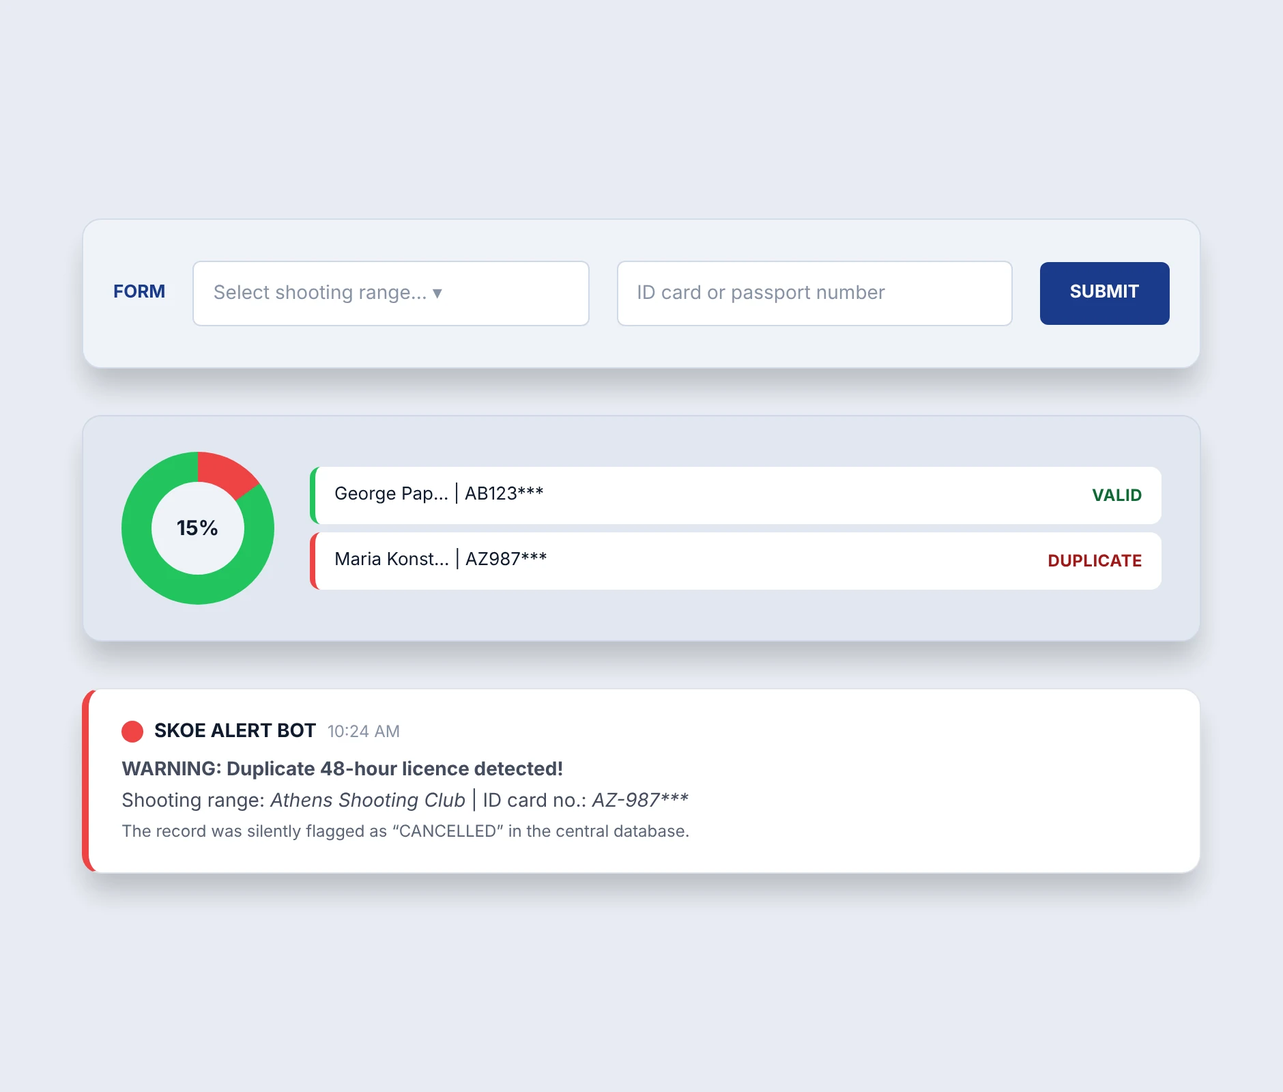
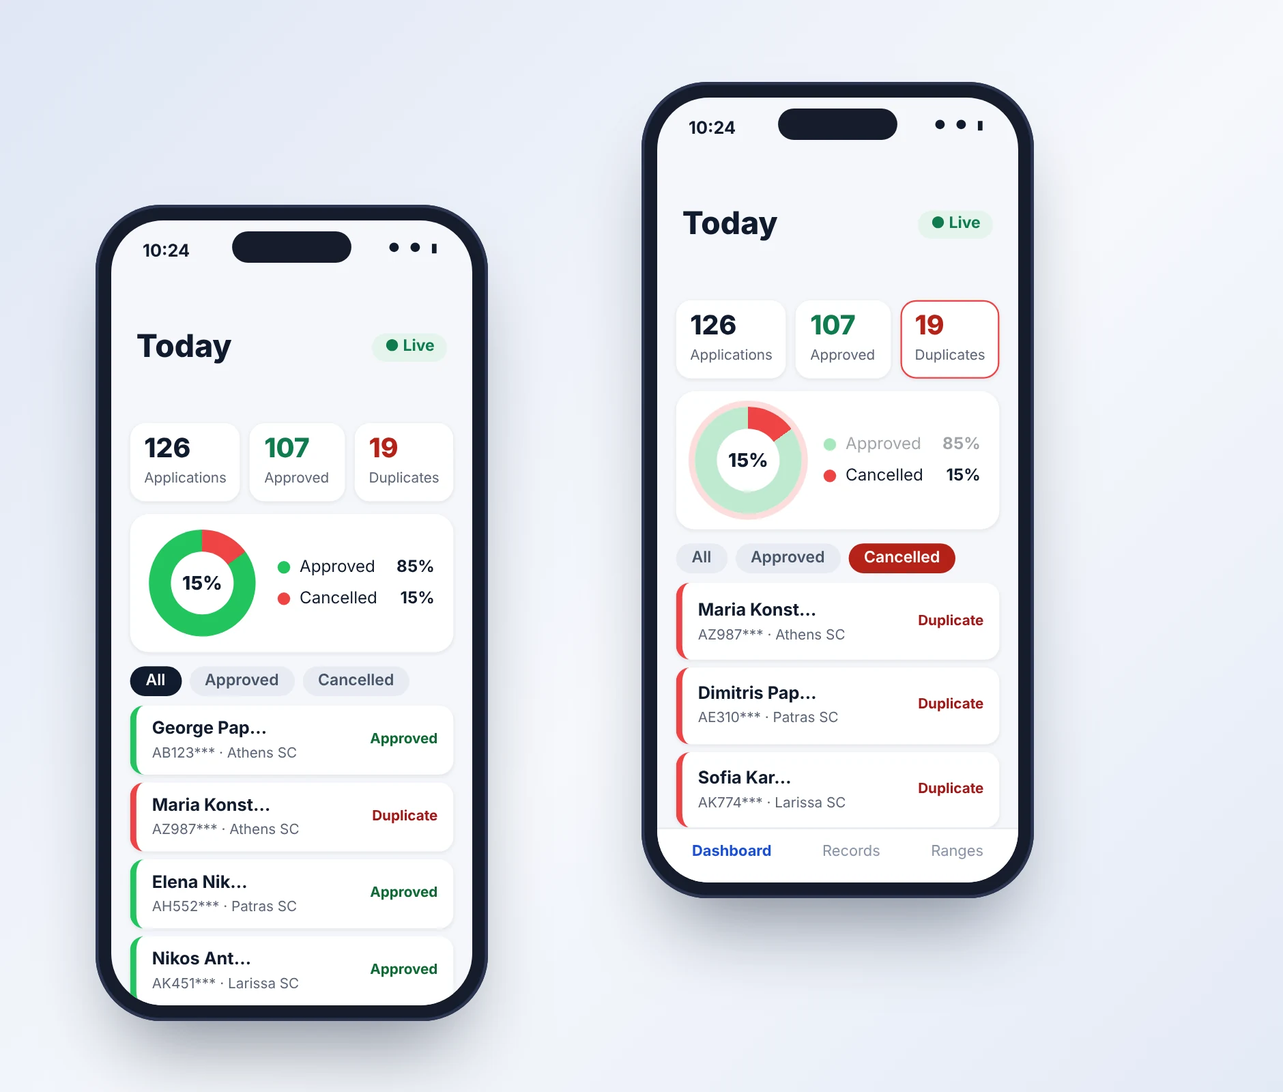
Add device mockups to SKOE 48-Hour Licence Monitor
Claude-Session: https://claude.ai/code/session_01SoYrbcfB7VkSE2m22CgD2x

Changed region(s): [[0.0617, 0.0625, 0.9564, 0.9688], [0.8638, 0.4375, 0.8947, 0.4688], [0.617, 0.7188, 0.6479, 0.75]]

diff --git a/skoe-monitor.html b/skoe-monitor.html
@@ -46,7 +46,7 @@
     </div>
   </section>
 
-  <div class="sk-hero"><img src="images/skoe/monitor-hero.webp" alt="Overview of the three interfaces: the shooting range form, the management dashboard and the Slack alert"></div>
+  <div class="sk-hero"><img src="images/skoe/monitor-hero.webp" alt="Overview of the system: the licence form on a tablet, the management dashboard on a phone and the alert on a smartwatch" width="2400" height="1320"></div>
 
   <section class="overview overview--gwc" aria-labelledby="ov">
     <h2 class="overview__label" id="ov">Overview</h2>
@@ -111,6 +111,14 @@
     </tbody>
   </table>
   </div>
+  <section class="copy copy--center"><p>With a few sample rows, the sheet looks like this. The duplicates are flagged without anyone at the range seeing it.</p></section>
+  <div class="mk-sheet" role="img" aria-label="Mockup of the Trial_Licenses spreadsheet with seven columns and five sample rows, two of them flagged as cancelled duplicates">
+  <div class="mk-sheet__in" aria-hidden="true">
+    <div class="mk-sheet__top"><span class="mk-sheet__ic"></span><b>SKOE · Trial_Licenses</b><span>Sample data</span></div>
+    <div class="mk-sheet__scroll"><table><thead><tr><th>id</th><th>date_issued</th><th>shooting_range</th><th>first_name</th><th>last_name</th><th>id_card_number</th><th>status</th></tr></thead><tbody><tr class="ok"><td>e4f1a2</td><td>09:02</td><td>Athens Shooting Club</td><td>George</td><td>Papadopoulos</td><td>AB123456</td><td><span class="c-green">APPROVED</span></td></tr><tr class="dup"><td>7c9d03</td><td>09:12</td><td>Patras Shooting Club</td><td>Dimitris</td><td>Papas</td><td>AE310245</td><td><span class="c-red">CANCELLED - DUPLICATE</span></td></tr><tr class="ok"><td>a81f6b</td><td>09:40</td><td>Larissa Shooting Club</td><td>Nikos</td><td>Antoniou</td><td>AK451870</td><td><span class="c-green">APPROVED</span></td></tr><tr class="ok"><td>b30c9e</td><td>10:11</td><td>Thessaloniki Shooting Range</td><td>Elena</td><td>Nikolaidou</td><td>AH552913</td><td><span class="c-green">APPROVED</span></td></tr><tr class="dup"><td>5d27e8</td><td>10:24</td><td>Athens Shooting Club</td><td>Maria</td><td>Konstantinou</td><td>AZ987654</td><td><span class="c-red">CANCELLED - DUPLICATE</span></td></tr></tbody></table></div>
+    <div class="mk-sheet__tab"><span>Trial_Licenses</span></div>
+  </div>
+</div>
 
   <div class="rule rule--gap-sm" role="presentation"></div>
   <h2 class="section-title section-title--lg">Logic and rules</h2>
@@ -144,15 +152,26 @@
   <div class="rule rule--gap-sm" role="presentation"></div>
   <h2 class="section-title section-title--lg">1. Shooting range interface (web form preview)</h2>
   <section class="copy copy--center"><p>The screen the range’s secretary sees. Designed on a white, minimalist background, it focuses only on collecting the three basic items quickly, with no unnecessary menus or distractions.</p></section>
-  <figure class="sk-mock">
-    <div class="sk-form" role="img" aria-label="Mockup of the web form: a shooting range dropdown, an ID card or passport number field and a submit button">
-      <span class="sk-form__label">FORM</span>
-      <span class="sk-form__field">Select shooting range… ▾</span>
-      <span class="sk-form__field sk-form__field--wide">ID card or passport number</span>
-      <span class="sk-form__btn">SUBMIT</span>
+  <div class="mk-stage"><div class="mk-tablet" role="img" aria-label="Mockup on a tablet: the licence form with a shooting range dropdown open, name fields, an ID card number field and a large submit button">
+  <div class="mk-tablet__screen" aria-hidden="true">
+    <div class="mk-bar"><span class="mk-logo">SKOE</span><span class="mk-bar__t">48-hour trial licence</span><span class="mk-bar__r">Hellenic Shooting Federation</span></div>
+    <div class="mk-formbody">
+      <h4>New trial licence</h4>
+      <p class="mk-sub">Takes about ten seconds. No account needed.</p>
+      <div class="mk-field"><label>Shooting range</label>
+        <div class="mk-select">Athens Shooting Club<i></i></div>
+        <ul class="mk-menu"><li class="on">Athens Shooting Club</li><li>Thessaloniki Shooting Range</li><li>Patras Shooting Club</li><li>Larissa Shooting Club</li></ul>
+      </div>
+      <div class="mk-row">
+        <div class="mk-field"><label>First name</label><div class="mk-input">Maria</div></div>
+        <div class="mk-field"><label>Last name</label><div class="mk-input">Konstantinou</div></div>
+      </div>
+      <div class="mk-field"><label>ID card or passport number</label><div class="mk-input mk-input--focus">AZ 987654<span class="mk-caret"></span></div></div>
+      <div class="mk-submit">Submit</div>
     </div>
-    <figcaption>Mockup of the form</figcaption>
-  </figure>
+  </div>
+</div></div>
+  <p class="mk-cap">Mockup on a tablet, with sample data</p>
   <section class="copy">
     <p class="sp"><span class="b">User experience at the range</span></p>
     <p><span class="b">Dropdowns:</span> the name of the range is chosen from a ready list, which removes spelling mistakes.</p>
@@ -162,16 +181,41 @@
   <div class="rule rule--none" role="presentation"></div>
   <h2 class="section-title section-title--lg">2. Central dashboard (Federation management)</h2>
   <section class="copy copy--center"><p>The heart of the control system. A modern AppSheet interface that groups thousands of records into one clean, interactive view. Here the data turns into knowledge at a glance.</p></section>
-  <figure class="sk-mock">
-    <div class="sk-dash" role="img" aria-label="Mockup of the dashboard: a donut chart with 15 percent red, and two records, one valid and one duplicate">
-      <div class="sk-donut"><span>15%</span></div>
-      <ul class="sk-recs">
-        <li class="ok"><span>George Pap… | AB123***</span><b>VALID</b></li>
-        <li class="dup"><span>Maria Konst… | AZ987***</span><b>DUPLICATE</b></li>
-      </ul>
-    </div>
-    <figcaption>Mockup of the dashboard</figcaption>
-  </figure>
+  <div class="mk-stage">
+    <div class="mk-pair"><div class="mk-phone" role="img" aria-label="Mockup on a phone: the management dashboard with today's totals, a donut chart that is 15 percent red and a list of recent records">
+  <div class="mk-phone__screen" aria-hidden="true">
+    <div class="mk-status"><b>10:24</b><span>● ● ▮</span></div>
+    <div class="mk-appbar"><h4>Today</h4><span class="mk-live">● Live</span></div>
+    <div class="mk-kpis"><div><b>126</b><span>Applications</span></div><div><b class="g">107</b><span>Approved</span></div><div><b class="r">19</b><span>Duplicates</span></div></div>
+    <div class="mk-chartcard"><div class="mk-donut mk-donut--sm"><span>15%</span></div><ul class="mk-legend"><li><i class="g"></i>Approved<b>85%</b></li><li><i class="r"></i>Cancelled<b>15%</b></li></ul></div>
+    <div class="mk-chips"><span class="on">All</span><span>Approved</span><span>Cancelled</span></div>
+    <ul class="mk-list">
+      <li class="ok"><div><b>George Pap…</b><span>AB123*** · Athens SC</span></div><em>Approved</em></li>
+      <li class="dup"><div><b>Maria Konst…</b><span>AZ987*** · Athens SC</span></div><em>Duplicate</em></li>
+      <li class="ok"><div><b>Elena Nik…</b><span>AH552*** · Patras SC</span></div><em>Approved</em></li>
+      <li class="ok"><div><b>Nikos Ant…</b><span>AK451*** · Larissa SC</span></div><em>Approved</em></li>
+    </ul>
+    <div class="mk-tabs"><span class="on">Dashboard</span><span>Records</span><span>Ranges</span></div>
+  </div>
+</div><p class="mk-cap">Today at a glance</p></div>
+    <span class="mk-arrow" aria-hidden="true">→</span>
+    <div class="mk-pair"><div class="mk-phone" role="img" aria-label="Mockup on a phone: after tapping the red slice the donut chart highlights it and the list shows only the cancelled duplicate records">
+  <div class="mk-phone__screen" aria-hidden="true">
+    <div class="mk-status"><b>10:24</b><span>● ● ▮</span></div>
+    <div class="mk-appbar"><h4>Today</h4><span class="mk-live">● Live</span></div>
+    <div class="mk-kpis"><div><b>126</b><span>Applications</span></div><div><b class="g">107</b><span>Approved</span></div><div class="sel"><b class="r">19</b><span>Duplicates</span></div></div>
+    <div class="mk-chartcard"><div class="mk-donut mk-donut--sm mk-donut--sel"><span>15%</span></div><ul class="mk-legend"><li class="dim"><i class="g"></i>Approved<b>85%</b></li><li><i class="r"></i>Cancelled<b>15%</b></li></ul></div>
+    <div class="mk-chips"><span>All</span><span>Approved</span><span class="on r">Cancelled</span></div>
+    <ul class="mk-list">
+      <li class="dup"><div><b>Maria Konst…</b><span>AZ987*** · Athens SC</span></div><em>Duplicate</em></li>
+      <li class="dup"><div><b>Dimitris Pap…</b><span>AE310*** · Patras SC</span></div><em>Duplicate</em></li>
+      <li class="dup"><div><b>Sofia Kar…</b><span>AK774*** · Larissa SC</span></div><em>Duplicate</em></li>
+    </ul>
+    <div class="mk-tabs"><span class="on">Dashboard</span><span>Records</span><span>Ranges</span></div>
+  </div>
+</div><p class="mk-cap">After tapping the red slice</p></div>
+  </div>
+  <p class="mk-cap">Mockups on a phone, with sample data</p>
   <section class="copy">
     <p class="sp"><span class="b">Interactivity and oversight</span></p>
     <p><span class="b">Interactive chart:</span> touching the red slice of the chart (15% in the mockup above) filters the list automatically to show only that day’s offenders.</p>
@@ -181,15 +225,25 @@
   <div class="rule rule--none" role="presentation"></div>
   <h2 class="section-title section-title--lg">3. Real-time alerts</h2>
   <section class="copy copy--center"><p>The system does not wait for the management to look for the problem. When the “radar” detects an illegal second application, it pushes the information actively (a push notification) to the organization’s communication tool, Slack.</p></section>
-  <figure class="sk-mock">
-    <div class="sk-slack" role="img" aria-label="Mockup of the Slack alert: a duplicate 48-hour licence was detected at the Athens Shooting Club">
-      <p class="sk-slack__head"><span class="sk-slack__dot"></span><b>SKOE ALERT BOT</b> <time>10:24 AM</time></p>
-      <p><b>WARNING: Duplicate 48-hour licence detected!</b></p>
-      <p>Shooting range: <i>Athens Shooting Club</i> | ID card no.: <i>AZ-987***</i></p>
-      <p class="sk-slack__small">The record was silently flagged as “CANCELLED” in the central database.</p>
+  <div class="mk-stage">
+    <div class="mk-slack" role="img" aria-label="Mockup of a Slack window: the licence alerts channel with an alert message from the SKOE alert bot reporting a duplicate 48-hour licence at the Athens Shooting Club">
+  <div class="mk-slack__in" aria-hidden="true">
+    <div class="mk-slack__top"><i></i><i></i><i></i></div>
+    <div class="mk-slack__body">
+      <aside><b>SKOE</b><span>Channels</span><ul><li># general</li><li class="on"># licence-alerts</li><li># office</li></ul></aside>
+      <section>
+        <header># licence-alerts<small>Real-time duplicate checks</small></header>
+        <div class="mk-msg"><span class="mk-avatar"></span><div><p class="mk-msg__h"><b>SKOE ALERT BOT</b> <time>9:12 AM</time></p>
+          <div class="mk-att"><p><b>WARNING: Duplicate 48-hour licence detected!</b></p><p>Shooting range: <i>Patras Shooting Club</i> | ID card no.: <i>AE-310***</i></p><p class="s">The record was silently flagged as “CANCELLED” in the central database.</p></div></div></div>
+        <div class="mk-msg"><span class="mk-avatar"></span><div><p class="mk-msg__h"><b>SKOE ALERT BOT</b> <time>10:24 AM</time></p>
+          <div class="mk-att"><p><b>WARNING: Duplicate 48-hour licence detected!</b></p><p>Shooting range: <i>Athens Shooting Club</i> | ID card no.: <i>AZ-987***</i></p><p class="s">The record was silently flagged as “CANCELLED” in the central database.</p></div><p class="mk-react"><span>👀 2</span><span>✅ 1</span></p></div></div>
+      </section>
     </div>
-    <figcaption>Mockup of the Slack alert</figcaption>
-  </figure>
+  </div>
+</div>
+    <div class="mk-alertcol"><div class="mk-watch" role="img" aria-label="Mockup of a smartwatch showing the alert: duplicate 48-hour licence at the Athens Shooting Club"><div class="mk-watch__screen" aria-hidden="true"><div class="mk-watch__t"><i></i>SKOE ALERT<time>10:24</time></div><b>Duplicate 48-hour licence</b><span>Athens Shooting Club<br>AZ-987***</span></div></div><div class="mk-banner" role="img" aria-label="Mockup of a phone notification from Slack: duplicate 48-hour licence detected"><div aria-hidden="true"><span class="mk-banner__ic"></span><div><p><b>SKOE ALERT BOT</b><time>now</time></p><p>WARNING: Duplicate 48-hour licence detected!</p><p class="s">Athens Shooting Club | AZ-987***</p></div></div></div></div>
+  </div>
+  <p class="mk-cap">The alert in Slack, as a push notification on the phone and on a smartwatch</p>
   <section class="copy">
     <p class="sp"><span class="b">Design value</span></p>
     <p><span class="b">Zero-click information:</span> the management receives the full report directly on their phone or smartwatch, without having to log in to the platform.</p>

diff --git a/css/style.css b/css/style.css
@@ -346,6 +346,117 @@ code{font:400 .88em ui-monospace,SFMono-Regular,Menlo,Consolas,monospace;backgro
 .sk-slack__dot{width:16px;height:16px;border-radius:50%;background:#ef4444}
 .sk-slack__small{font-size:12px;color:#5b6577}
 
+/* 9e. Device mockups (sample data) ------------------------------------------ */
+.mk-stage{margin:0 24px;border-radius:14px;padding:44px 24px 36px;background:linear-gradient(135deg,#e7edf8 0%,#f6f8fc 55%,#e9eef7 100%);box-shadow:0 16px 20.3px -3px rgba(0,0,0,.14);display:flex;justify-content:center;align-items:center;gap:34px;flex-wrap:wrap;position:relative}
+.mk-cap{margin:12px 0 0;text-align:center;font-size:calc(var(--fs-body)*.85);line-height:1.4;color:#4f4f4f}
+.mk-pair{display:flex;flex-direction:column;align-items:center}
+.mk-arrow{font-size:28px;color:#1b4fd8;align-self:center}
+.mk-tablet,.mk-phone,.mk-slack,.mk-sheet,.mk-watch,.mk-banner{font-family:Inter,system-ui,-apple-system,"Segoe UI",Roboto,Arial,sans-serif;color:#0f1b2d;text-align:left}
+.mk-tablet i,.mk-phone i{font-style:normal}
+/* tablet */
+.mk-tablet{width:min(100%,640px);aspect-ratio:4/3;padding:13px;border-radius:30px;background:#151c2c;box-shadow:0 30px 50px -18px rgba(15,27,45,.5),inset 0 0 0 2px #2b3550}
+.mk-tablet__screen{height:100%;border-radius:18px;background:#fff;overflow:hidden;font-size:12.5px;line-height:1.4}
+.mk-bar{display:flex;align-items:center;gap:12px;padding:10px 18px;background:#0f1b2d;color:#fff;font-size:12px}
+.mk-logo{display:inline-grid;place-items:center;padding:2px 8px;border-radius:6px;background:#1b4fd8;font-weight:800;letter-spacing:.04em;font-size:11px}
+.mk-bar__t{font-weight:600}.mk-bar__r{margin-left:auto;opacity:.7}
+.mk-formbody{padding:18px 8% 0;position:relative}
+.mk-formbody h4{font-size:19px;font-weight:800;line-height:1.2}
+.mk-sub{color:#5b6577;margin:2px 0 12px}
+.mk-field{margin-bottom:10px;position:relative}
+.mk-field label{display:block;font-size:11px;font-weight:700;color:#475467;margin-bottom:4px}
+.mk-select,.mk-input{padding:9px 12px;border-radius:8px;border:1px solid #cfd8e6;background:#fff;font-size:13px}
+.mk-select{display:flex;justify-content:space-between;border-color:#1b4fd8;box-shadow:0 0 0 3px rgba(27,79,216,.15)}
+.mk-select i{width:7px;height:7px;border-right:2px solid #475467;border-bottom:2px solid #475467;transform:rotate(45deg);margin:3px 3px 0 0}
+.mk-menu{list-style:none;position:absolute;z-index:3;left:0;right:0;top:100%;margin-top:4px;padding:4px;border-radius:10px;background:#fff;border:1px solid #dde3ee;box-shadow:0 14px 30px -8px rgba(15,27,45,.35)}
+.mk-menu li{padding:7px 10px;border-radius:6px;font-size:12.5px}
+.mk-menu li.on{background:#eaf0ff;color:#1b4fd8;font-weight:600}
+.mk-row{display:grid;grid-template-columns:1fr 1fr;gap:12px}
+.mk-input--focus{border-color:#1b4fd8;box-shadow:0 0 0 3px rgba(27,79,216,.15)}
+.mk-caret{display:inline-block;width:1.5px;height:14px;background:#1b4fd8;vertical-align:-2px;margin-left:2px}
+.mk-submit{margin-top:14px;padding:12px;border-radius:10px;background:#1b4fd8;color:#fff;text-align:center;font-weight:700;font-size:14px;box-shadow:0 8px 16px -6px rgba(27,79,216,.6)}
+/* phone */
+.mk-phone{width:250px;height:520px;flex:0 0 auto;padding:10px;border-radius:42px;background:#151c2c;box-shadow:0 30px 50px -18px rgba(15,27,45,.5),inset 0 0 0 2px #2b3550;position:relative}
+.mk-phone::before{content:"";position:absolute;top:17px;left:50%;width:76px;height:20px;margin-left:-38px;border-radius:12px;background:#151c2c;z-index:3}
+.mk-phone__screen{height:100%;border-radius:33px;background:#f5f7fb;overflow:hidden;display:flex;flex-direction:column;font-size:11px;line-height:1.35}
+.mk-status{display:flex;justify-content:space-between;padding:12px 20px 4px;font-size:11px;color:#0f1b2d}
+.mk-status span{font-size:8px;letter-spacing:2px}
+.mk-appbar{display:flex;justify-content:space-between;align-items:center;padding:10px 16px 8px}
+.mk-appbar h4{font-size:20px;font-weight:800}
+.mk-live{font-size:10px;font-weight:700;color:#0f7b4e;background:#e5f4ec;border-radius:99px;padding:2px 8px}
+.mk-kpis{display:grid;grid-template-columns:repeat(3,1fr);gap:6px;padding:0 12px}
+.mk-kpis div{background:#fff;border-radius:10px;padding:7px 8px;box-shadow:0 1px 3px rgba(15,27,45,.08);border:1.5px solid transparent}
+.mk-kpis b{display:block;font-size:17px;font-weight:800;line-height:1.1}
+.mk-kpis span{font-size:9px;color:#5b6577}
+.mk-kpis .sel{border-color:#ef4444}
+.g{color:#0f7b4e}.r{color:#b42318}
+.mk-chartcard{display:flex;align-items:center;gap:14px;margin:8px 12px 0;padding:10px 12px;background:#fff;border-radius:12px;box-shadow:0 1px 3px rgba(15,27,45,.08)}
+.mk-donut--sm{flex:0 0 68px;height:68px;border-radius:50%;background:conic-gradient(#ef4444 0 15%,#22c55e 0);display:grid;place-items:center;position:relative}
+.mk-donut--sm::after{content:"";position:absolute;inset:14px;border-radius:50%;background:#fff}
+.mk-donut--sm span{position:relative;z-index:1;font-size:12px;font-weight:800}
+.mk-donut--sel{background:conic-gradient(#ef4444 0 15%,#bfe9cf 0);box-shadow:0 0 0 4px rgba(239,68,68,.18)}
+.mk-legend{list-style:none;flex:1;display:grid;gap:6px}
+.mk-legend li{display:flex;align-items:center;gap:6px;font-size:10.5px}
+.mk-legend li.dim{opacity:.4}
+.mk-legend i{width:8px;height:8px;border-radius:50%;background:#22c55e}.mk-legend i.r{background:#ef4444}
+.mk-legend b{margin-left:auto}
+.mk-chips{display:flex;gap:5px;padding:9px 12px 4px}
+.mk-chips span{padding:3px 10px;border-radius:99px;background:#e8ecf3;font-size:10px;font-weight:600;color:#475467}
+.mk-chips .on{background:#0f1b2d;color:#fff}.mk-chips .on.r{background:#b42318;color:#fff}
+.mk-list{list-style:none;display:grid;gap:5px;padding:2px 12px 0;flex:1}
+.mk-list li{display:flex;align-items:center;justify-content:space-between;padding:7px 10px;border-radius:9px;background:#fff;border-left:4px solid #22c55e;box-shadow:0 1px 3px rgba(15,27,45,.08)}
+.mk-list li.dup{border-left-color:#ef4444}
+.mk-list b{display:block;font-size:11px}.mk-list span{font-size:9px;color:#5b6577}
+.mk-list em{font-style:normal;font-size:9px;font-weight:700;color:#0f6a35}.mk-list .dup em{color:#a01818}
+.mk-tabs{display:flex;justify-content:space-around;padding:9px 6px 12px;background:#fff;border-top:1px solid #e6e9f0;font-size:9.5px;color:#8793a6;margin-top:auto}
+.mk-tabs .on{color:#1b4fd8;font-weight:700}
+/* slack */
+.mk-slack{width:min(100%,620px);border-radius:12px;overflow:hidden;background:#fff;box-shadow:0 30px 50px -18px rgba(15,27,45,.45),0 0 0 1px rgba(15,27,45,.1)}
+.mk-slack__top{display:flex;gap:6px;padding:9px 12px;background:#3f0e40}
+.mk-slack__top i{width:10px;height:10px;border-radius:50%;background:#ff5f57}.mk-slack__top i:nth-child(2){background:#febc2e}.mk-slack__top i:nth-child(3){background:#28c840}
+.mk-slack__body{display:grid;grid-template-columns:150px 1fr;font-size:12px;line-height:1.45}
+.mk-slack aside{background:#3f0e40;color:#d9c8da;padding:12px 14px;min-height:300px}
+.mk-slack aside b{display:block;color:#fff;font-size:14px;margin-bottom:12px}
+.mk-slack aside span{display:block;font-size:10px;text-transform:uppercase;letter-spacing:.06em;opacity:.7;margin-bottom:6px}
+.mk-slack aside ul{list-style:none;display:grid;gap:3px}
+.mk-slack aside li{padding:3px 8px;border-radius:6px}.mk-slack aside li.on{background:#1164a3;color:#fff}
+.mk-slack header{padding:10px 16px;border-bottom:1px solid #e6e6e6;font-weight:800;font-size:14px}
+.mk-slack header small{display:block;font-weight:400;font-size:11px;color:#616061}
+.mk-msg{display:flex;gap:10px;padding:12px 16px 0}
+.mk-avatar{flex:0 0 32px;height:32px;border-radius:7px;background:#ef4444;position:relative}
+.mk-avatar::after{content:"";position:absolute;inset:9px;border-radius:50%;background:#fff}
+.mk-msg__h b{font-size:12.5px}.mk-msg time{font-size:10.5px;color:#616061}
+.mk-att{margin-top:4px;padding:2px 0 2px 11px;border-left:4px solid #ef4444;color:#1d1c1d}
+.mk-att .s{font-size:11px;color:#616061}
+.mk-react{display:flex;gap:6px;margin-top:6px}.mk-react span{padding:1px 8px;border-radius:99px;background:#e8f5fa;border:1px solid #1264a3;font-size:11px}
+/* watch + banner */
+.mk-watch{width:170px;height:200px;padding:9px;border-radius:50px;background:#1c1c1e;box-shadow:0 24px 40px -14px rgba(0,0,0,.55),inset 0 0 0 2px #3a3a3c;flex:0 0 auto}
+.mk-watch__screen{height:100%;border-radius:42px;background:#000;color:#fff;padding:16px 14px;font-size:11px;line-height:1.35}
+.mk-watch__t{display:flex;align-items:center;gap:6px;font-size:9.5px;font-weight:700;letter-spacing:.04em;color:#ff6b61;margin-bottom:8px}
+.mk-watch__t i{width:9px;height:9px;border-radius:50%;background:#ef4444}.mk-watch__t time{margin-left:auto;color:#aaa;font-weight:400}
+.mk-watch__screen b{display:block;font-size:14px;line-height:1.2;margin-bottom:6px}
+.mk-watch__screen span{color:#bdbdc2;font-size:10.5px}
+.mk-banner{width:min(100%,340px);padding:12px 14px;border-radius:20px;background:rgba(255,255,255,.88);box-shadow:0 18px 34px -12px rgba(15,27,45,.4),0 0 0 1px rgba(15,27,45,.06);font-size:12px;line-height:1.35}
+.mk-banner>div{display:flex;gap:10px}
+.mk-banner__ic{flex:0 0 34px;height:34px;border-radius:9px;background:#ef4444;position:relative}
+.mk-banner__ic::after{content:"";position:absolute;inset:10px;border-radius:50%;background:#fff}
+.mk-banner p:first-child{display:flex;justify-content:space-between}.mk-banner time{color:#6b7280;font-size:11px}
+.mk-banner .s{color:#4b5563;font-size:11.5px}
+.mk-alertcol{display:flex;flex-direction:column;align-items:center;gap:22px}
+/* sheet */
+.mk-sheet{margin:0 24px;border-radius:12px;background:#fff;box-shadow:0 24px 40px -16px rgba(15,27,45,.35),0 0 0 1px rgba(15,27,45,.1);overflow:hidden}
+.mk-sheet__top{display:flex;align-items:center;gap:10px;padding:10px 16px;background:#0f9d58;color:#fff;font-size:13px}
+.mk-sheet__top span:last-child{margin-left:auto;font-size:11px;opacity:.85}
+.mk-sheet__ic{width:14px;height:18px;border-radius:2px;background:#fff;opacity:.9}
+.mk-sheet__scroll{overflow-x:auto}
+.mk-sheet table{width:100%;min-width:760px;border-collapse:collapse;font-size:12px}
+.mk-sheet th{background:#f1f3f4;font-weight:700;text-align:left;padding:7px 12px;border:1px solid #e0e3e7;font-family:ui-monospace,SFMono-Regular,Menlo,Consolas,monospace;font-size:11px;color:#3c4043}
+.mk-sheet td{padding:7px 12px;border:1px solid #e0e3e7;white-space:nowrap}
+.mk-sheet tr.dup td{background:#fdecea}
+.mk-sheet .c-green,.mk-sheet .c-red{padding:2px 9px;border-radius:99px;font-size:10.5px;font-weight:700}
+.mk-sheet__tab{padding:6px 14px;background:#f1f3f4;border-top:1px solid #e0e3e7;font-size:11px}
+.mk-sheet__tab span{display:inline-block;padding:3px 12px;background:#fff;border-radius:4px;color:#0f9d58;font-weight:700;box-shadow:0 1px 2px rgba(0,0,0,.2)}
+.mk-datanote{margin-top:10px}
+
 /* 10. Home / About -------------------------------------------------------- */
 .home-flow{display:flex;flex-direction:column;gap:80px;padding-top:80px}
 .hero{padding:0 clamp(14px,2.2vw,25px)}
@@ -403,6 +514,7 @@ a.card:hover .card__title{text-decoration:underline;text-underline-position:from
   .sk-cards--3,.sk-cards--4{grid-template-columns:repeat(2,1fr)}
   .sk-stats{grid-template-columns:1fr}
   .sk-split{grid-template-columns:1fr}
+  .mk-arrow{transform:rotate(90deg)}
   .sk-arch{flex-direction:column}.sk-arrow{transform:rotate(90deg)}
   .sk-ds{grid-template-columns:1fr;padding-inline:24px}
   .dual{flex-direction:column;align-items:center}
@@ -430,6 +542,9 @@ a.card:hover .card__title{text-decoration:underline;text-underline-position:from
   .sk-hero,.sk-shot,.sk-cards,.sk-stats,.sk-arch,.sk-tablewrap{padding-inline:14px}
   .sk-callout{margin-inline:14px}
   .sk-split,.sk-codewrap,.sk-mock{padding-inline:14px}
+  .mk-stage{margin-inline:14px;padding:28px 12px 24px}.mk-sheet{margin-inline:14px}
+  .mk-slack__body{grid-template-columns:1fr}.mk-slack aside{display:none}
+  .mk-tablet{aspect-ratio:auto;padding:10px}.mk-formbody{padding-bottom:18px}
   .sk-form{flex-direction:column;align-items:stretch;padding:24px 18px}
   .sk-dash{flex-direction:column;padding:20px 16px}
   .copy{padding-block:16px}
